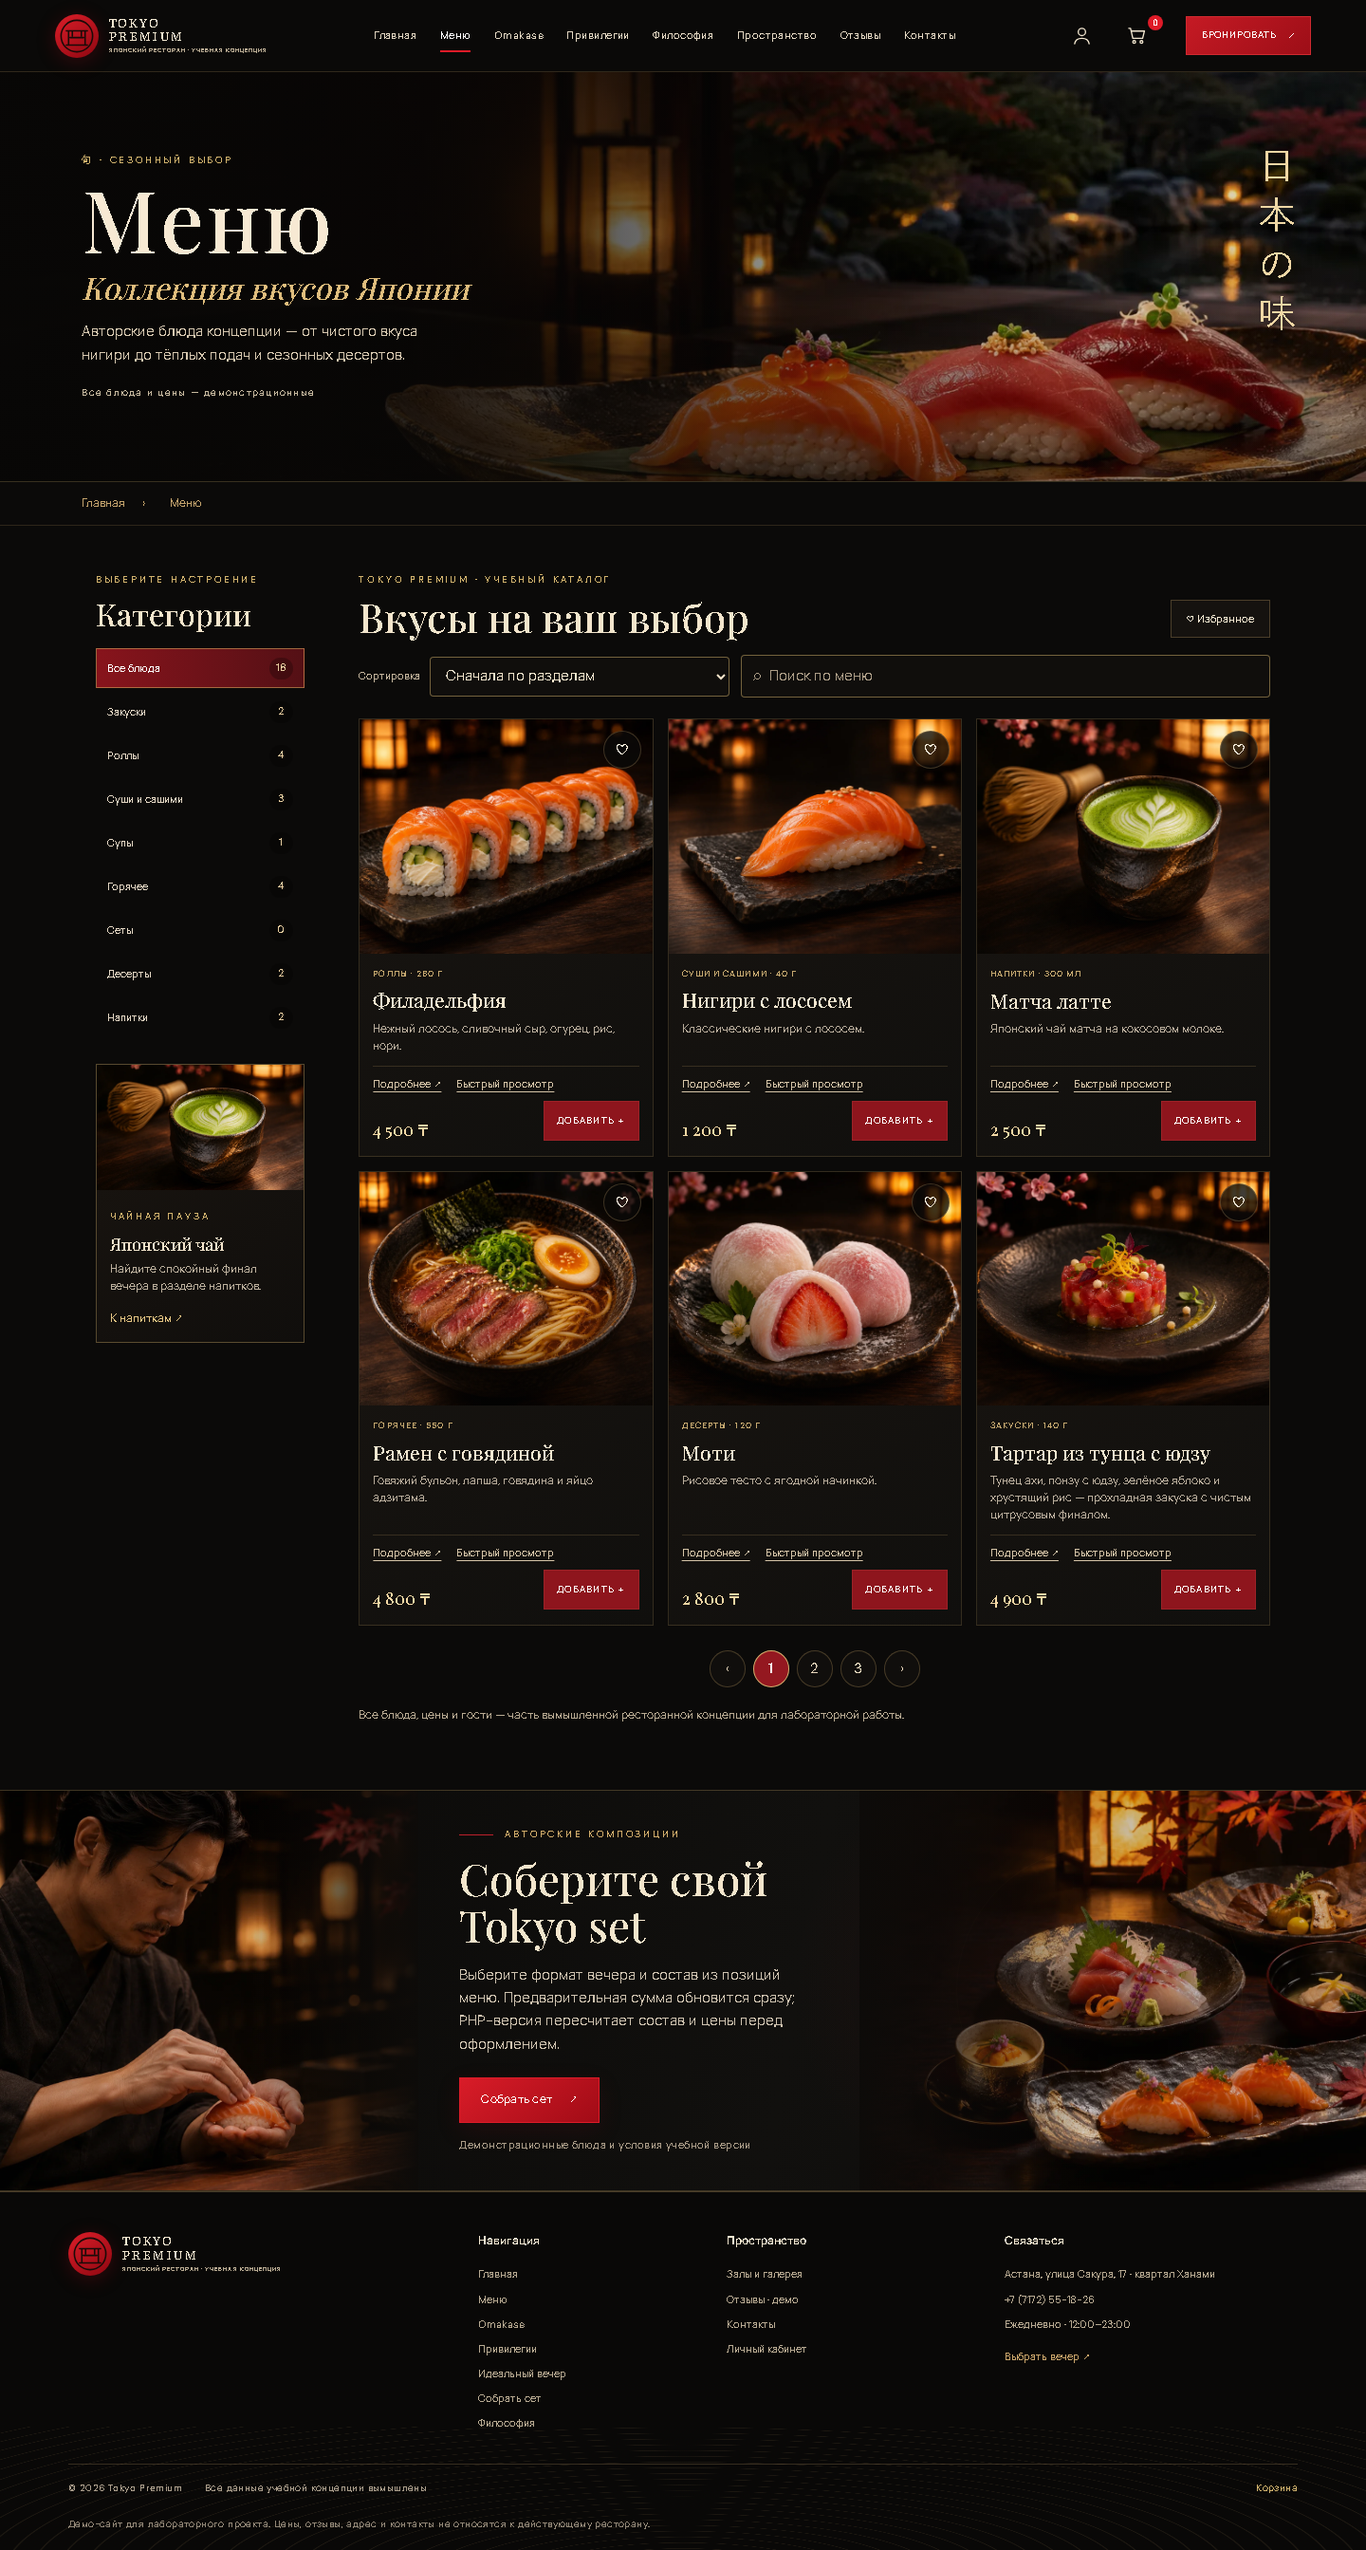
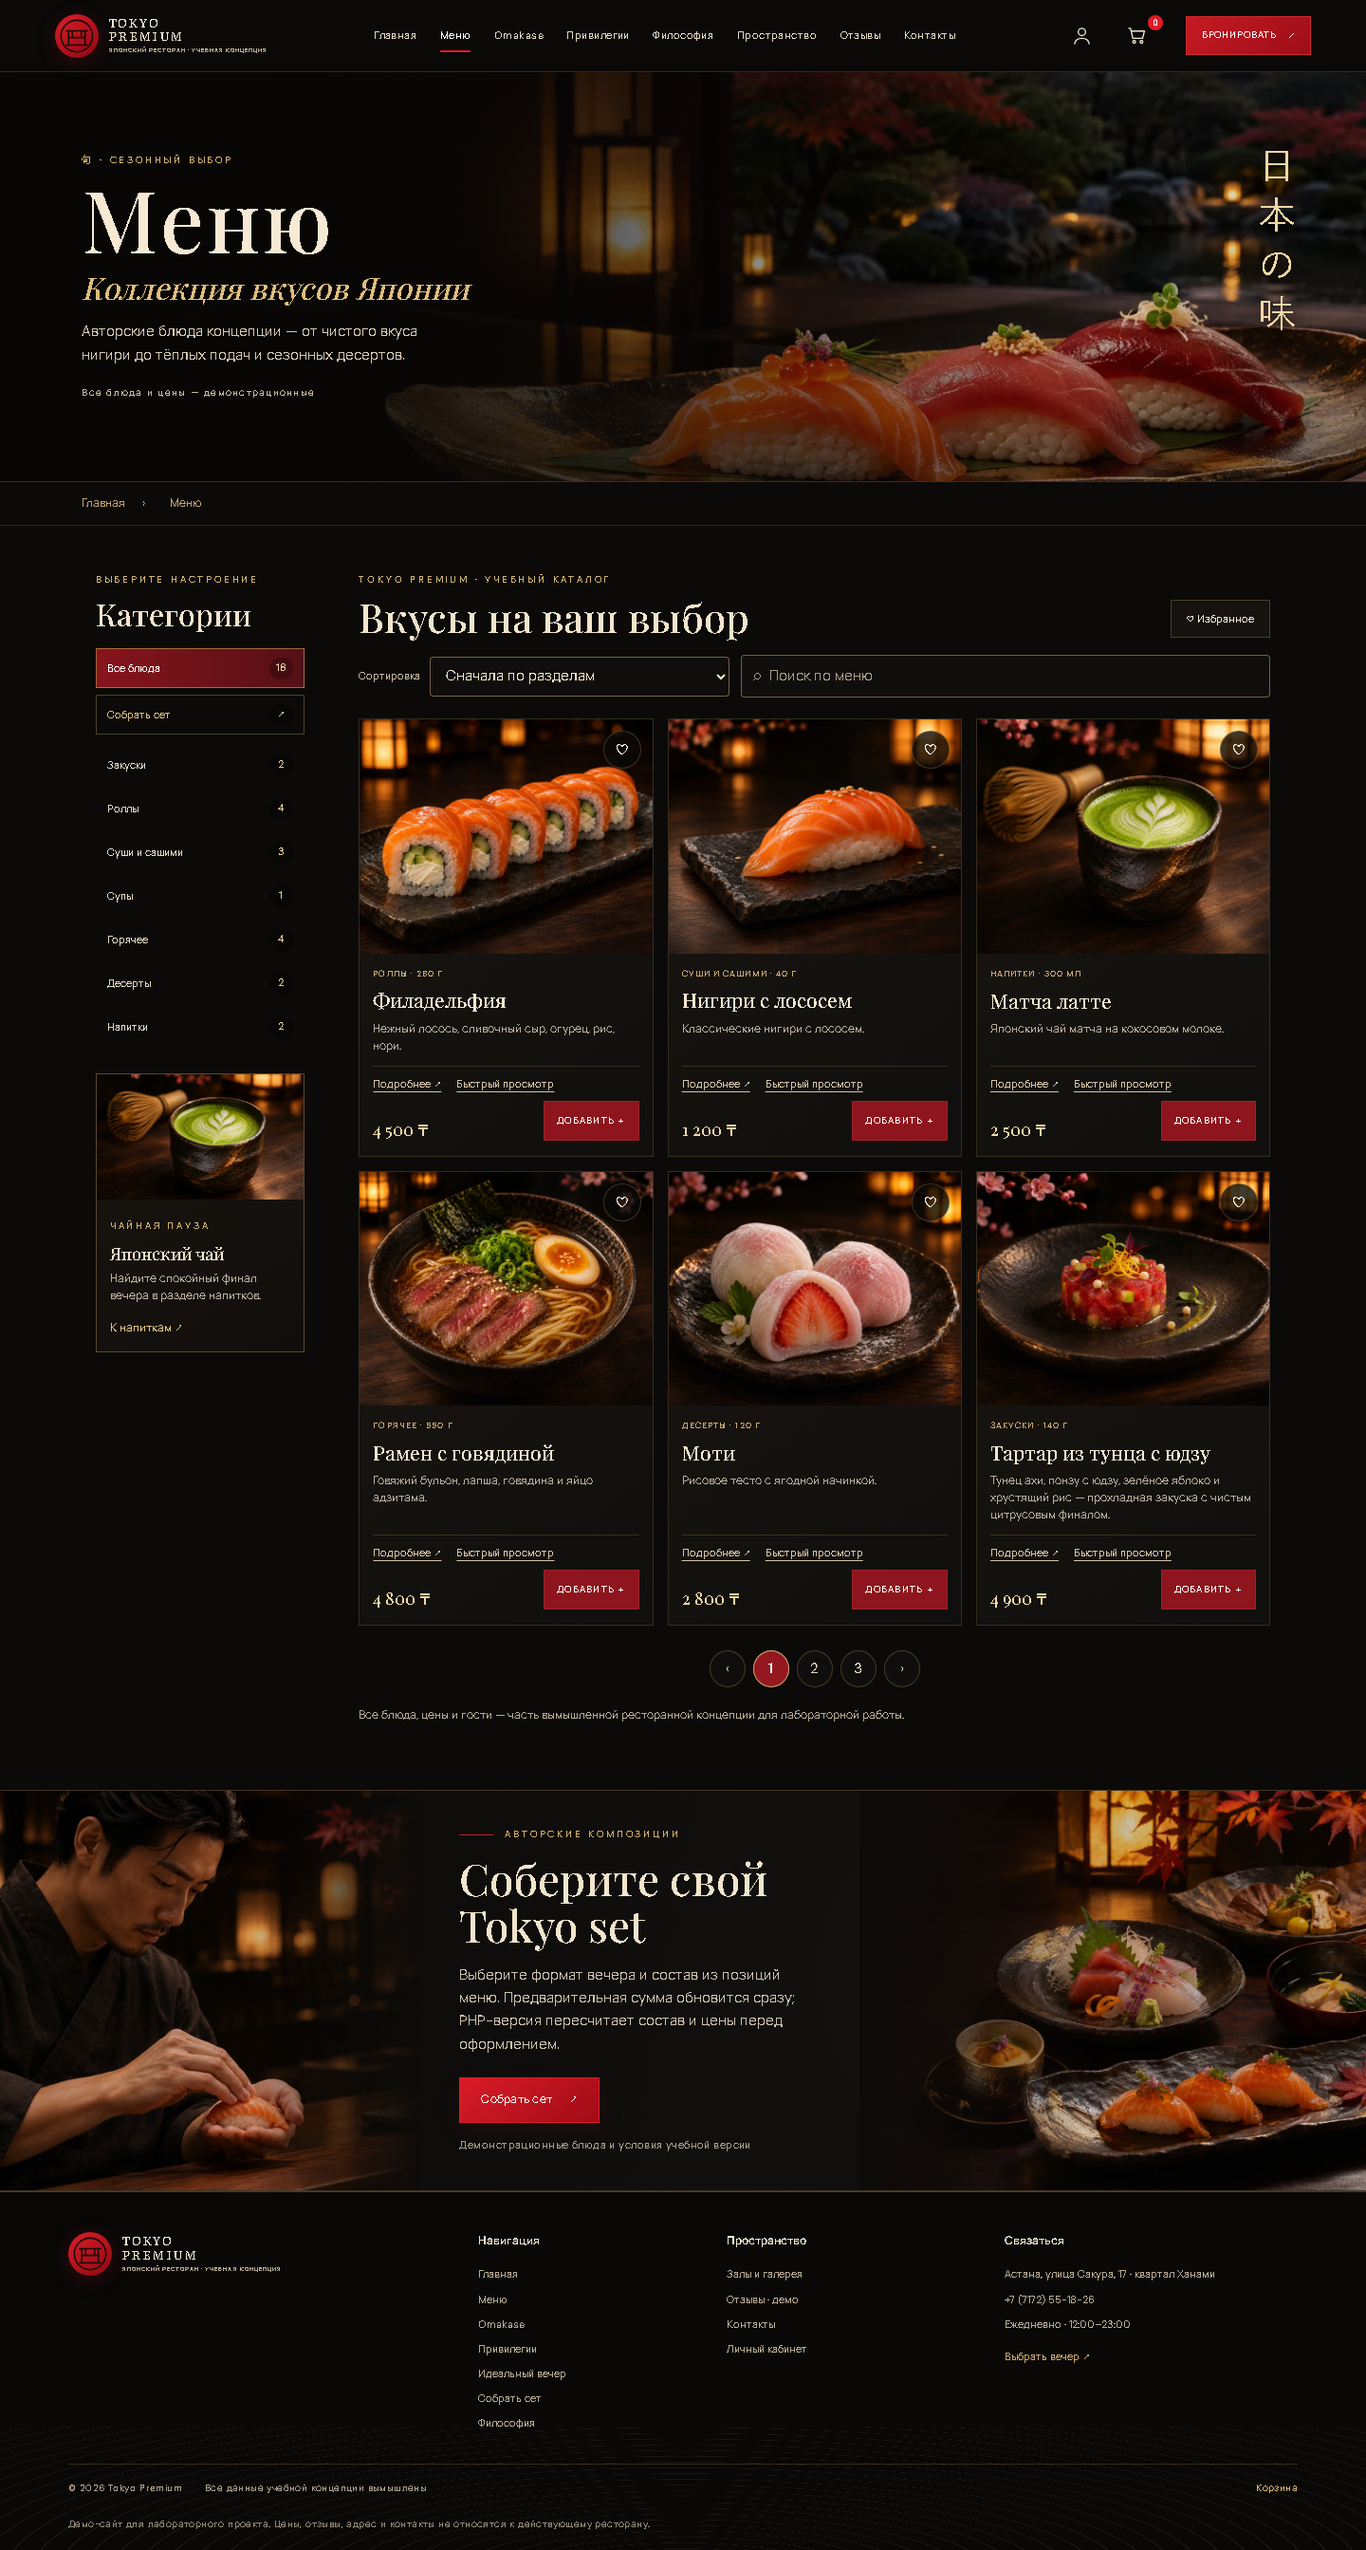
fix: expose set builder from menu categories

Changed region(s): [[0.0625, 0.4016, 0.2188, 0.5251]]

diff --git a/docs/menu.html b/docs/menu.html
@@ -6,8 +6,8 @@
       <aside class="menu-sidebar" aria-label="Разделы меню">
         <div class="menu-sidebar-heading"><span class="kicker">Выберите настроение</span><h2>Категории</h2></div>
         <nav class="menu-category-list" aria-label="Фильтр по категории">
-          <button class="filter-btn active" data-category="all"><span>Все блюда</span><b>18</b></button>
-          <button class="filter-btn" data-category="starters"><span>Закуски</span><b>2</b></button><button class="filter-btn" data-category="rolls"><span>Роллы</span><b>4</b></button><button class="filter-btn" data-category="sushi"><span>Суши и сашими</span><b>3</b></button><button class="filter-btn" data-category="soups"><span>Супы</span><b>1</b></button><button class="filter-btn" data-category="hot"><span>Горячее</span><b>4</b></button><button class="filter-btn" data-category="sets"><span>Сеты</span><b>0</b></button><button class="filter-btn" data-category="desserts"><span>Десерты</span><b>2</b></button><button class="filter-btn" data-category="drinks"><span>Напитки</span><b>2</b></button>        </nav>
+          <button class="filter-btn active" data-category="all"><span>Все блюда</span><b>18</b></button><a class="filter-btn menu-set-link" href="set-builder.html" aria-label="Перейти к конструктору японских сетов"><span>Собрать сет</span><b aria-hidden="true">↗</b></a>
+          <button class="filter-btn" data-category="starters"><span>Закуски</span><b>2</b></button><button class="filter-btn" data-category="rolls"><span>Роллы</span><b>4</b></button><button class="filter-btn" data-category="sushi"><span>Суши и сашими</span><b>3</b></button><button class="filter-btn" data-category="soups"><span>Супы</span><b>1</b></button><button class="filter-btn" data-category="hot"><span>Горячее</span><b>4</b></button><button class="filter-btn" data-category="desserts"><span>Десерты</span><b>2</b></button><button class="filter-btn" data-category="drinks"><span>Напитки</span><b>2</b></button>        </nav>
         <article class="menu-tea-card"><img src="assets/food/04-matcha-latte.webp" alt="Матча латте из демонстрационного меню" loading="lazy" decoding="async"><div><span class="kicker">Чайная пауза</span><h3>Японский чай</h3><p>Найдите спокойный финал вечера в разделе напитков.</p><a href="#menu-catalog" data-category-link="drinks">К напиткам ↗</a></div></article>
       </aside>
       <div class="menu-catalog" id="menu-catalog">

diff --git a/docs/luxury-refinements.css b/docs/luxury-refinements.css
@@ -14,6 +14,8 @@
 .menu-sidebar-heading h2{margin:7px 0 18px;color:#f3e5cc;font:500 clamp(1.45rem,2.3vw,2rem)/1.15 'Playfair Display',serif}
 .menu-category-list{display:grid;gap:4px}
 .menu-category-list .filter-btn{display:flex;align-items:center;justify-content:space-between;gap:10px;width:100%;min-height:42px;padding:8px 11px;border:1px solid transparent;background:transparent;color:#e4d7c4;text-align:left;cursor:pointer;transition:background .2s,border-color .2s,color .2s}
+.menu-category-list .menu-set-link{margin:3px 0 7px;border-color:rgba(199,167,102,.35);color:#d8bd83;text-decoration:none}
+.menu-category-list .menu-set-link:hover{background:linear-gradient(100deg,rgba(137,20,28,.55),rgba(23,19,15,.9))}
 .menu-category-list .filter-btn:hover{border-color:rgba(199,167,102,.35);background:#17130f}
 .menu-category-list .filter-btn.active{border-color:rgba(210,167,93,.58);background:linear-gradient(90deg,#88141c,#541015);color:#fff}
 .menu-category-list .filter-btn b{display:grid;place-items:center;min-width:25px;height:23px;padding:0 6px;border-radius:20px;background:rgba(0,0,0,.25);color:#e7cda0;font-size:.68rem;font-weight:500}

diff --git a/luxury-refinements.css b/luxury-refinements.css
@@ -14,6 +14,8 @@
 .menu-sidebar-heading h2{margin:7px 0 18px;color:#f3e5cc;font:500 clamp(1.45rem,2.3vw,2rem)/1.15 'Playfair Display',serif}
 .menu-category-list{display:grid;gap:4px}
 .menu-category-list .filter-btn{display:flex;align-items:center;justify-content:space-between;gap:10px;width:100%;min-height:42px;padding:8px 11px;border:1px solid transparent;background:transparent;color:#e4d7c4;text-align:left;cursor:pointer;transition:background .2s,border-color .2s,color .2s}
+.menu-category-list .menu-set-link{margin:3px 0 7px;border-color:rgba(199,167,102,.35);color:#d8bd83;text-decoration:none}
+.menu-category-list .menu-set-link:hover{background:linear-gradient(100deg,rgba(137,20,28,.55),rgba(23,19,15,.9))}
 .menu-category-list .filter-btn:hover{border-color:rgba(199,167,102,.35);background:#17130f}
 .menu-category-list .filter-btn.active{border-color:rgba(210,167,93,.58);background:linear-gradient(90deg,#88141c,#541015);color:#fff}
 .menu-category-list .filter-btn b{display:grid;place-items:center;min-width:25px;height:23px;padding:0 6px;border-radius:20px;background:rgba(0,0,0,.25);color:#e7cda0;font-size:.68rem;font-weight:500}

diff --git a/menu.php b/menu.php
@@ -17,7 +17,8 @@ $cats=db()->query('SELECT slug,name FROM categories ORDER BY sort_order')->fetch
         <div class="menu-sidebar-heading"><span class="kicker">Выберите настроение</span><h2>Категории</h2></div>
         <nav class="menu-category-list" aria-label="Фильтр по категории">
           <button class="filter-btn active" data-category="all"><span>Все блюда</span><b><?=count($all)?></b></button>
-          <?php foreach($cats as $c): $categoryCount=count(array_filter($all,static fn($d)=>$d['category']===$c['slug'])); ?><button class="filter-btn" data-category="<?=e($c['slug'])?>"><span><?=e($c['name'])?></span><b><?=$categoryCount?></b></button><?php endforeach ?>
+          <a class="filter-btn menu-set-link" href="set-builder.php" aria-label="Перейти к конструктору японских сетов"><span>Собрать сет</span><b aria-hidden="true">↗</b></a>
+          <?php foreach($cats as $c): $categoryCount=count(array_filter($all,static fn($d)=>$d['category']===$c['slug'])); if($categoryCount===0) continue; ?><button class="filter-btn" data-category="<?=e($c['slug'])?>"><span><?=e($c['name'])?></span><b><?=$categoryCount?></b></button><?php endforeach ?>
         </nav>
         <article class="menu-tea-card"><img src="assets/food/04-matcha-latte.webp" alt="Матча латте из демонстрационного меню" loading="lazy" decoding="async"><div><span class="kicker">Чайная пауза</span><h3>Японский чай</h3><p>Найдите спокойный финал вечера в разделе напитков.</p><a href="#menu-catalog" data-category-link="drinks">К напиткам ↗</a></div></article>
       </aside>

diff --git a/project-docs/visual-qa/menu-visual-follow-up-2026-11-16/comparison.md b/project-docs/visual-qa/menu-visual-follow-up-2026-11-16/comparison.md
@@ -5,3 +5,5 @@ Reference: `design-references/02-menu.png`. Captures: `menu-1440-loaded.png`, `m
 The desktop keeps the reference's category rail, search/sort controls, three-column dish grid, pagination, and authored-set story. The phone view retains a horizontally browsable category strip and a readable two-column catalog. The site uses its own original Japanese-garden-and-sushi hero photograph, so its image composition is an intentional adaptation rather than a copy of the reference. The menu catalog's bottom padding is now capped at 58 px on desktop and 32 px on mobile to bring the set-builder story closer to the catalog.
 
 A focused local static check passed at 1440 px and 390 px: HTTP 200, all 22 page images decoded before full-page capture, document width matches viewport, and there were no browser errors or HTTP failures. Screenshots were visually inspected. The PHP route was not rendered because this runtime lacks the PDO SQLite driver; this was not a full menu-interaction test, broad suite, hosted CI run, or public deployment.
+
+Follow-up: removed the empty “Сеты 0” filter and placed “Собрать сет” beside “Все блюда” in both PHP and static menu templates. At 1440 px and 390 px the shortcut was visible without horizontally scrolling the category strip; clicking it opened the static set builder. The focused run found no empty filters or browser errors. Cropped controls are saved as `category-controls-1440.png` and `category-controls-390.png`. The PHP route, full suite, CI, and public deployment were not checked in this follow-up.

diff --git a/project-docs/final-modernization-report.md b/project-docs/final-modernization-report.md
@@ -177,3 +177,7 @@ The custom Pages account template had omitted `luxury-refinements.css`; the expo
 ## 2026-11-16 menu spacing and visual comparison
 
 `menu-visual-follow-up-2026-11-16/` contains eager-loaded 1440 px and 390 px captures compared against `02-menu.png`. The first full-page capture showed blank lower-card images because the manual screenshot did not scroll to trigger native lazy loading; the replacement capture explicitly decoded all 22 images before taking the screenshot. No asset was missing. Menu-section bottom padding is now limited to 58 px desktop / 32 px mobile. The focused static route had HTTP 200, no overflow, browser errors, or HTTP failures. PHP rendering, full interaction regression, CI, and Pages deployment were not checked.
+
+### Menu category and set-builder shortcut follow-up
+
+Removed the empty “Сеты 0” filter and added a direct “Собрать сет” link beside “Все блюда” in the PHP template and static export. The focused browser check captured the category rail at 1440 px and 390 px, confirmed the link is initially visible at both widths and opens the set-builder page, and found no browser errors. Crops are in `visual-qa/menu-visual-follow-up-2026-11-16/category-controls-{1440,390}.png`. PHP rendering, full suite, hosted CI and Pages deployment were not verified in this follow-up.

diff --git a/project-docs/visual-qa/README.md b/project-docs/visual-qa/README.md
@@ -139,3 +139,5 @@ The custom Pages account template had omitted `luxury-refinements.css`; the expo
 ## 2026-11-16 menu spacing and visual comparison
 
 `menu-visual-follow-up-2026-11-16/` contains eager-loaded 1440 px and 390 px captures compared against `02-menu.png`. The first full-page capture showed blank lower-card images because the manual screenshot did not scroll to trigger native lazy loading; the replacement capture explicitly decoded all 22 images before taking the screenshot. No asset was missing. Menu-section bottom padding is now limited to 58 px desktop / 32 px mobile. The focused static route had HTTP 200, no overflow, browser errors, or HTTP failures. PHP rendering, full interaction regression, CI, and Pages deployment were not checked.
+
+The category controls now omit empty categories and expose “Собрать сет” beside “Все блюда”. Cropped static captures `category-controls-1440.png` and `category-controls-390.png` show the visible shortcut on desktop and mobile. A focused browser check found zero empty category filters, loaded the linked `set-builder.html`, and reported no browser errors. The mobile category strip intentionally scrolls horizontally; the page itself remains within the viewport in the preceding full-page check.

diff --git a/project-docs/testing-report.md b/project-docs/testing-report.md
@@ -227,3 +227,5 @@ The custom Pages account template had omitted `luxury-refinements.css`; the expo
 ## 2026-11-16 menu spacing and visual comparison
 
 `menu-visual-follow-up-2026-11-16/` contains eager-loaded 1440 px and 390 px captures compared against `02-menu.png`. The first full-page capture showed blank lower-card images because the manual screenshot did not scroll to trigger native lazy loading; the replacement capture explicitly decoded all 22 images before taking the screenshot. No asset was missing. Menu-section bottom padding is now limited to 58 px desktop / 32 px mobile. The focused static route had HTTP 200, no overflow, browser errors, or HTTP failures. PHP rendering, full interaction regression, CI, and Pages deployment were not checked.
+
+Follow-up browser check: the category rail was captured at 1440 px and 390 px, has no zero-result filter, and displays the set-builder shortcut within the initial viewport at both widths. The 390 px flow followed the shortcut to `set-builder.html` successfully with no page or console errors. The strip itself remains horizontally scrollable by design. No broad suite or PHP browser render was repeated.
